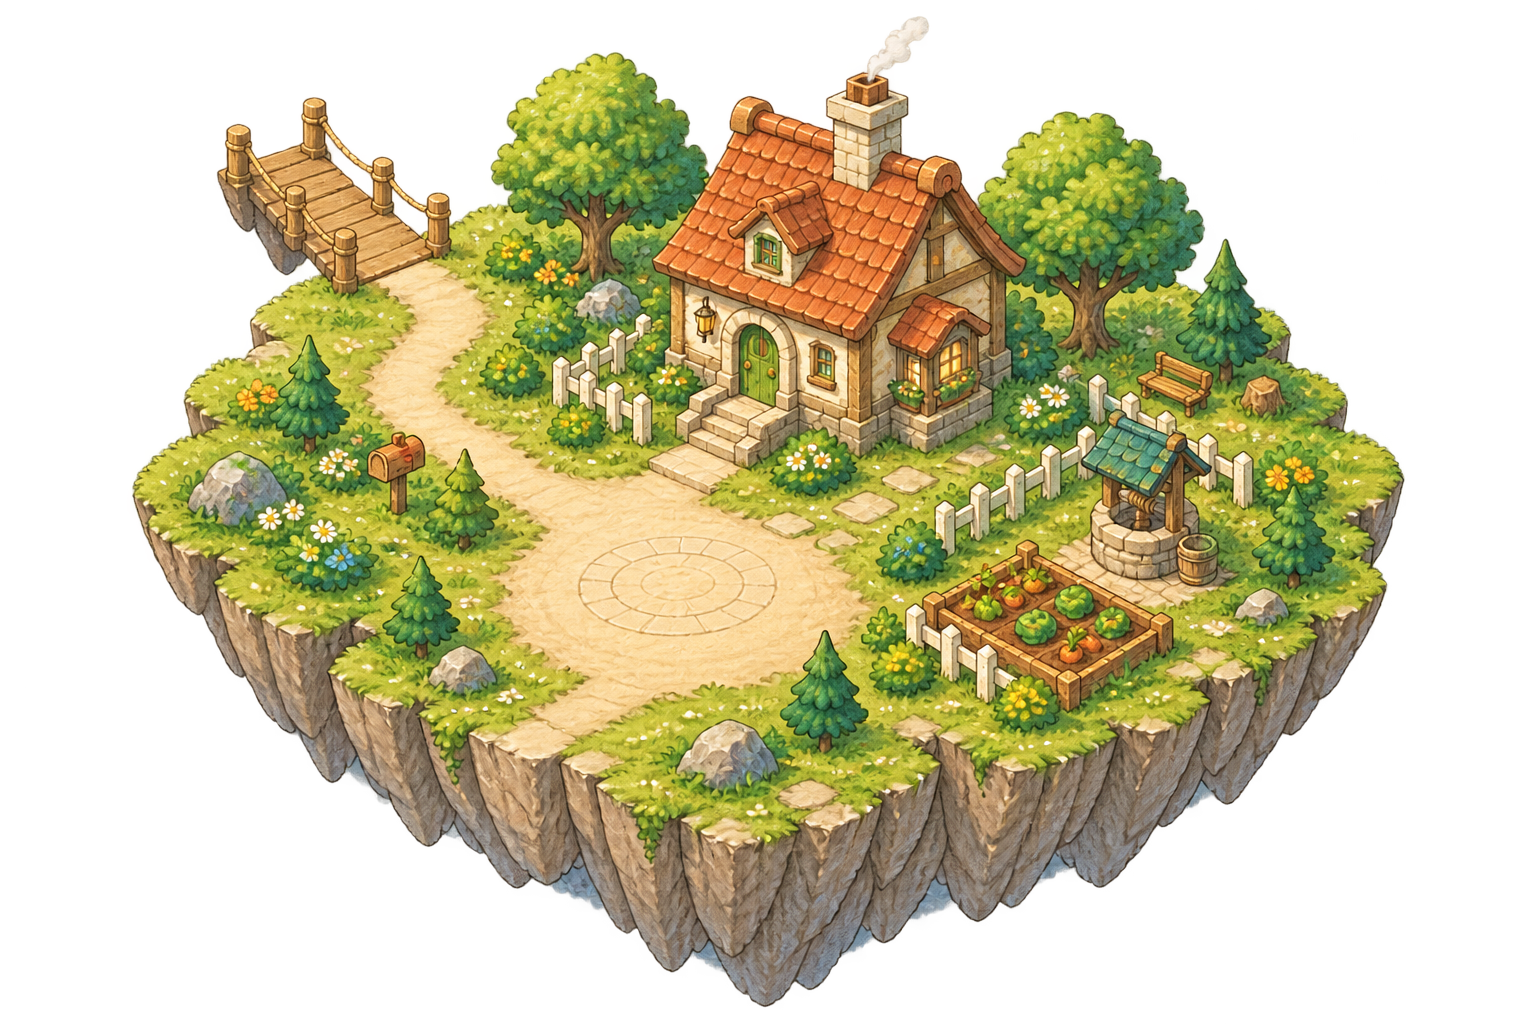
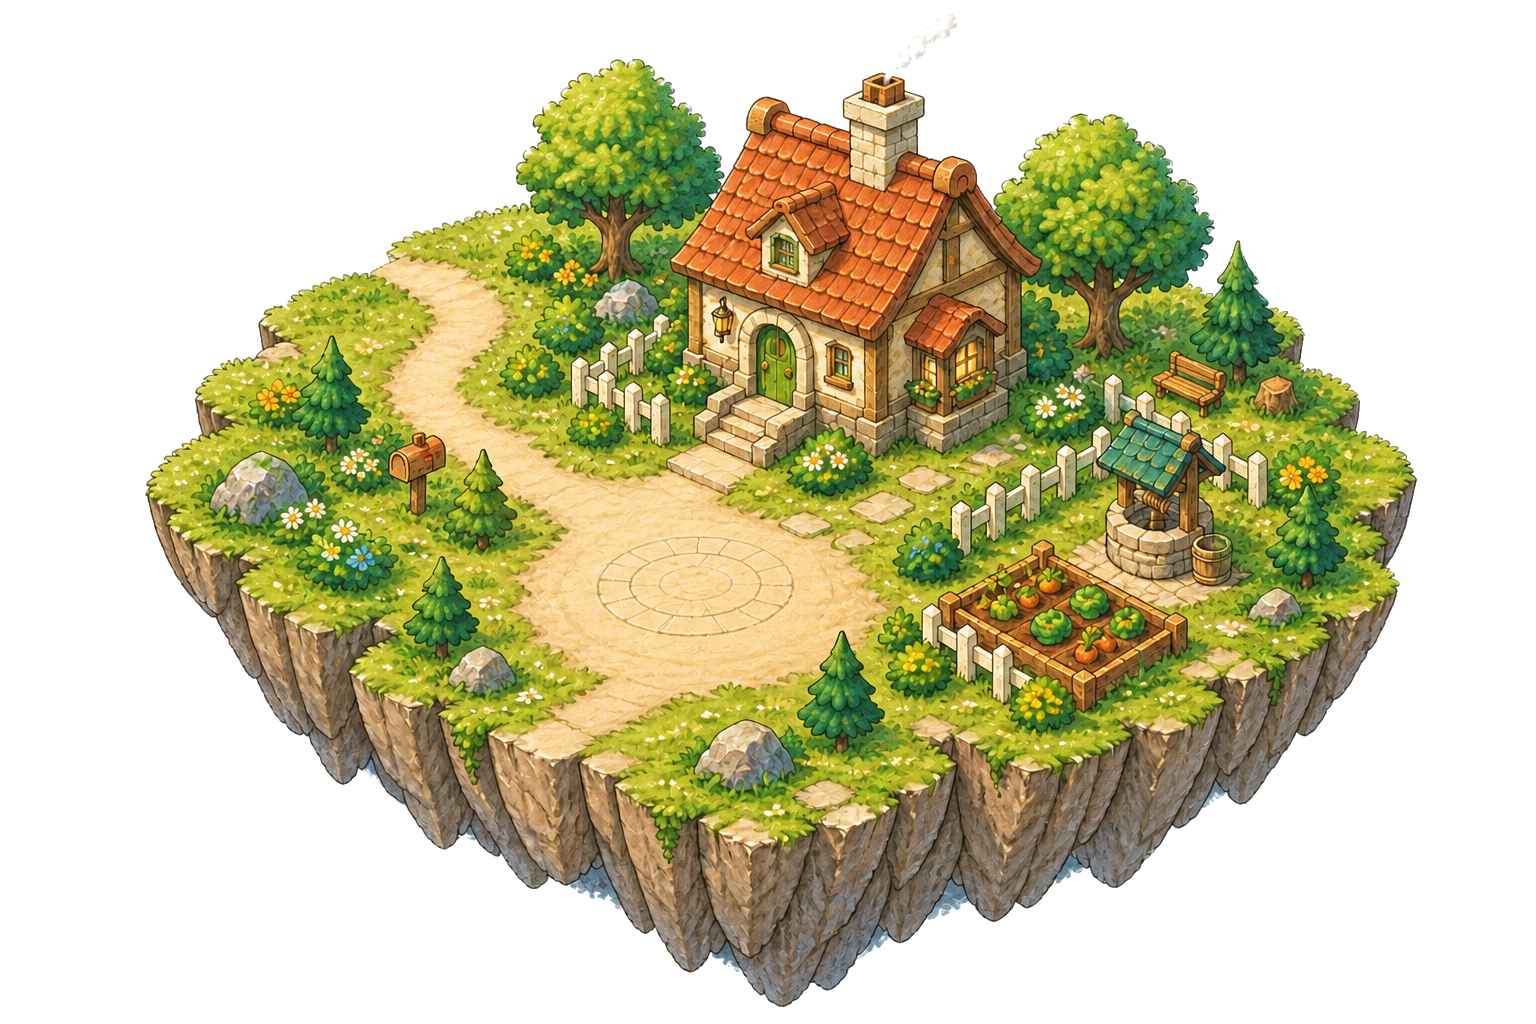
重排自然链式群岛并移除原生码头

diff --git a/src/config/world.js b/src/config/world.js
@@ -1,4 +1,4 @@
-export const MAP_SIZE = Object.freeze({ width: 3400, height: 2200 });
+export const MAP_SIZE = Object.freeze({ width: 5300, height: 2200 });
 
 export const WORLD_BOUNDS = Object.freeze({
   minX: 0,
@@ -57,9 +57,9 @@ function futureIsland(unlockOrder, sceneBounds) {
   });
 }
 
-const HOME_BOUNDS = bounds(1080, 900, 740, 580);
-const MOUNTAIN_BOUNDS = bounds(390, 390, 760, 590);
-const OFFICE_BOUNDS = bounds(1270, 190, 760, 600);
+const HOME_BOUNDS = bounds(80, 140, 740, 580);
+const MOUNTAIN_BOUNDS = bounds(600, 560, 760, 590);
+const OFFICE_BOUNDS = bounds(1120, 1300, 760, 600);
 
 export const ISLANDS = Object.freeze([
   sceneIsland("home", 0, assetUrl("assets/islands/home.png"), HOME_BOUNDS),
@@ -76,31 +76,58 @@ export const ISLANDS = Object.freeze([
     OFFICE_BOUNDS,
     cloudCover(OFFICE_BOUNDS, 0.94),
   ),
-  futureIsland(3, bounds(2070, 130, 620, 480)),
-  futureIsland(4, bounds(2730, 560, 620, 480)),
-  futureIsland(5, bounds(2500, 1240, 620, 480)),
-  futureIsland(6, bounds(1970, 1650, 620, 450)),
-  futureIsland(7, bounds(1240, 1700, 620, 440)),
-  futureIsland(8, bounds(430, 1530, 620, 460)),
-  futureIsland(9, bounds(0, 940, 600, 470)),
+  futureIsland(3, bounds(1690, 1060, 620, 480)),
+  futureIsland(4, bounds(2200, 690, 620, 480)),
+  futureIsland(5, bounds(2760, 340, 620, 480)),
+  futureIsland(6, bounds(3260, 520, 620, 480)),
+  futureIsland(7, bounds(3710, 1145, 620, 450)),
+  futureIsland(8, bounds(4190, 940, 620, 460)),
+  futureIsland(9, bounds(4630, 415, 600, 470)),
 ]);
 
-export const BRIDGES = Object.freeze([
-  Object.freeze({
-    id: "home-mountain",
-    from: Object.freeze({ x: 1240, z: 1060 }),
-    to: Object.freeze({ x: 1030, z: 820 }),
+function islandWalkEllipse(island) {
+  return Object.freeze({
+    x: island.bounds.x + island.bounds.width / 2,
+    z: island.bounds.z + island.bounds.height * 0.52,
+    radiusX: island.bounds.width * 0.43,
+    radiusZ: island.bounds.height * 0.37,
+  });
+}
+
+function ellipseEdgePoint(ellipse, toward) {
+  const dx = toward.x - ellipse.x;
+  const dz = toward.z - ellipse.z;
+  const length = Math.hypot(dx, dz);
+  const direction = { x: dx / length, z: dz / length };
+  const distance = 1 / Math.sqrt(
+    direction.x ** 2 / ellipse.radiusX ** 2
+      + direction.z ** 2 / ellipse.radiusZ ** 2,
+  );
+  return Object.freeze({
+    x: ellipse.x + direction.x * distance,
+    z: ellipse.z + direction.z * distance,
+  });
+}
+
+function bridgeBetween(fromIsland, toIsland) {
+  const fromEllipse = islandWalkEllipse(fromIsland);
+  const toEllipse = islandWalkEllipse(toIsland);
+  return Object.freeze({
+    id: fromIsland.id + "-" + toIsland.id,
+    fromIslandId: fromIsland.id,
+    toIslandId: toIsland.id,
+    from: ellipseEdgePoint(fromEllipse, toEllipse),
+    to: ellipseEdgePoint(toEllipse, fromEllipse),
     width: 110,
-    requiredOrder: 1,
-  }),
-  Object.freeze({
-    id: "mountain-office",
-    from: Object.freeze({ x: 1080, z: 725 }),
-    to: Object.freeze({ x: 1380, z: 620 }),
-    width: 110,
-    requiredOrder: 2,
-  }),
-]);
+    requiredOrder: toIsland.unlockOrder,
+  });
+}
+
+export const BRIDGES = Object.freeze(
+  ISLANDS.slice(0, -1).map((island, index) => (
+    bridgeBetween(island, ISLANDS[index + 1])
+  )),
+);
 
 function gateAcrossBridge(bridge, depth = 70) {
   const dx = bridge.to.x - bridge.from.x;
@@ -135,9 +162,11 @@ function gateAcrossBridge(bridge, depth = 70) {
   });
 }
 
-export const LOCKED_GATES = Object.freeze([
-  gateAcrossBridge(BRIDGES.find(({ id }) => id === "mountain-office")),
-]);
+export const LOCKED_GATES = Object.freeze(
+  BRIDGES
+    .filter(({ requiredOrder }) => requiredOrder >= 2)
+    .map((bridge) => gateAcrossBridge(bridge)),
+);
 
 function ellipseArea(centerX, centerZ, radiusX, radiusZ, segments = 16) {
   return freezeArea(Array.from({ length: segments }, (_, index) => {
@@ -174,13 +203,19 @@ function bridgeArea(bridge, overlap = 24) {
 }
 
 export const WALKABLE_AREAS = Object.freeze([
-  ellipseArea(1450, 1180, 330, 230),
-  ellipseArea(780, 700, 310, 225),
-  ellipseArea(1650, 520, 310, 210),
+  ...ISLANDS.map((island) => {
+    const ellipse = islandWalkEllipse(island);
+    return ellipseArea(
+      ellipse.x,
+      ellipse.z,
+      ellipse.radiusX,
+      ellipse.radiusZ,
+    );
+  }),
   ...BRIDGES.map((bridge) => bridgeArea(bridge)),
 ]);
 
-export const PLAYER_START = Object.freeze({ x: 1450, z: 1300 });
+export const PLAYER_START = Object.freeze({ x: 500, z: 500 });
 export const PLAYER_RADIUS = 15;
 export const PLAYER_SPEED = 145;
 
@@ -189,11 +224,11 @@ export const LOCATIONS = Object.freeze([
     id: "home",
     name: "家庭小屋",
     unlockOrder: 0,
-    x: 1450,
-    z: 1115,
+    x: 450,
+    z: 330,
     hitRadius: 130,
     interactionRadius: 235,
-    approach: Object.freeze({ x: 1450, z: 1300 }),
+    approach: Object.freeze({ x: 500, z: 500 }),
     accent: "#b77b56",
     description: "旅程从熟悉的家和院子开始。",
     sceneDescription: "这里是玩家的出生地和家庭场景，不需要解锁。",
@@ -203,11 +238,11 @@ export const LOCATIONS = Object.freeze([
     name: "爬山岛",
     unlockOrder: 1,
     unlocksOrder: 2,
-    x: 760,
-    z: 650,
+    x: 1030,
+    z: 800,
     hitRadius: 145,
     interactionRadius: 285,
-    approach: Object.freeze({ x: 980, z: 760 }),
+    approach: Object.freeze({ x: 1049, z: 966 }),
     accent: "#9b745c",
     description: "第一站：沿着山路走向云端。",
     sceneDescription: "走过绳桥就能开始爬山。完成这段旅程后，工作岛将会解锁。",
@@ -217,11 +252,11 @@ export const LOCATIONS = Object.freeze([
     id: "office",
     name: "工作岛",
     unlockOrder: 2,
-    x: 1690,
-    z: 475,
+    x: 1540,
+    z: 1500,
     hitRadius: 135,
     interactionRadius: 305,
-    approach: Object.freeze({ x: 1435, z: 600 }),
+    approach: Object.freeze({ x: 1420, z: 1485 }),
     accent: "#647f8a",
     description: "第二站：进入办公室，开始新的故事。",
     lockedDescription: "工作岛尚未解锁，请先完成爬山。",
@@ -230,7 +265,7 @@ export const LOCATIONS = Object.freeze([
 ]);
 
 export const OBSTACLES = Object.freeze([
-  Object.freeze({ x: 1450, z: 1115, radius: 88 }),
-  Object.freeze({ x: 760, z: 650, radius: 110 }),
-  Object.freeze({ x: 1690, z: 475, radius: 92 }),
+  Object.freeze({ x: 450, z: 330, radius: 88 }),
+  Object.freeze({ x: 1030, z: 800, radius: 90 }),
+  Object.freeze({ x: 1540, z: 1500, radius: 92 }),
 ]);

diff --git a/tests/world.test.js b/tests/world.test.js
@@ -72,3 +72,44 @@ test("玩家出生在家庭岛且移动速度固定为舒适值", () => {
   );
   assert.equal(world.PLAYER_SPEED, 145);
 });
+
+test("十座岛屿按双谷折线排列并用九座相邻桥串联", () => {
+  const centers = world.ISLANDS.map(({ bounds }) => ({
+    x: bounds.x + bounds.width / 2,
+    z: bounds.z + bounds.height / 2,
+  }));
+
+  assert.equal(world.BRIDGES.length, world.ISLANDS.length - 1);
+  for (let index = 0; index < world.BRIDGES.length; index += 1) {
+    const bridge = world.BRIDGES[index];
+    assert.equal(bridge.fromIslandId, world.ISLANDS[index].id);
+    assert.equal(bridge.toIslandId, world.ISLANDS[index + 1].id);
+    assert.equal(bridge.requiredOrder, world.ISLANDS[index + 1].unlockOrder);
+    assert.ok(centers[index].x < centers[index + 1].x);
+  }
+
+  const heights = centers.map(({ z }) => z);
+  assert.ok(heights[0] < heights[1] && heights[1] < heights[2]);
+  assert.ok(heights[2] > heights[3] && heights[3] > heights[4]);
+  assert.ok(heights[4] > heights[5]);
+  assert.ok(heights[5] < heights[6] && heights[6] < heights[7]);
+  assert.ok(heights[7] > heights[8] && heights[8] > heights[9]);
+});
+
+test("双转折链路使用不等间距和不同谷深避免机械对称", () => {
+  const centers = world.ISLANDS.map(({ bounds }) => ({
+    x: bounds.x + bounds.width / 2,
+    z: bounds.z + bounds.height / 2,
+  }));
+  const horizontalGaps = centers.slice(1).map((center, index) => (
+    center.x - centers[index].x
+  ));
+  const firstDescent = centers[2].z - centers[0].z;
+  const secondDescent = centers[7].z - centers[5].z;
+  const firstAscent = centers[2].z - centers[5].z;
+  const secondAscent = centers[7].z - centers[9].z;
+
+  assert.ok(Math.max(...horizontalGaps) - Math.min(...horizontalGaps) >= 80);
+  assert.ok(Math.abs(firstDescent - secondDescent) >= 200);
+  assert.ok(Math.abs(firstAscent - secondAscent) >= 200);
+});

diff --git a/tests/camera.test.js b/tests/camera.test.js
@@ -14,20 +14,20 @@ test("静止概览会完整容纳整张地图", async () => {
   assert.ok(transform.offsetY > 0);
 });
 
-test("移动近景会放大两倍并把角色置于视口中央", async () => {
+test("横向地图的近景保持人物可读尺度并置于视口中央", async () => {
   const camera = await cameraPromise;
   assert.equal(typeof camera.createFollowTransform, "function");
 
   const transform = camera.createFollowTransform(
     1200,
     800,
-    3400,
+    5300,
     2200,
-    { x: 1700, z: 1100 },
+    { x: 2650, z: 1100 },
   );
 
-  assert.ok(Math.abs(transform.scale - (1200 / 3400) * 2) < 0.000001);
-  assert.ok(Math.abs(1700 * transform.scale + transform.offsetX - 600) < 0.001);
+  assert.ok(Math.abs(transform.scale - Math.min(1200 / 1700, 800 / 1100)) < 0.000001);
+  assert.ok(Math.abs(2650 * transform.scale + transform.offsetX - 600) < 0.001);
   assert.ok(Math.abs(1100 * transform.scale + transform.offsetY - 400) < 0.001);
 });
 
@@ -39,12 +39,12 @@ test("近景跟随在地图边缘不会露出空白", async () => {
     camera.createFollowTransform(
       1200,
       800,
-      3400,
+      5300,
       2200,
       { x: 0, z: 0 },
     ),
     {
-      scale: (1200 / 3400) * 2,
+      scale: Math.min(1200 / 1700, 800 / 1100),
       offsetX: 0,
       offsetY: 0,
     },

diff --git a/src/systems/camera.js b/src/systems/camera.js
@@ -1,4 +1,4 @@
-const FOLLOW_ZOOM = 2;
+const FOLLOW_WORLD_SIZE = Object.freeze({ width: 1700, height: 1100 });
 const CAMERA_RESPONSE = 8;
 const INTRO_OVERVIEW_SECONDS = 1.2;
 
@@ -33,7 +33,13 @@ export function createFollowTransform(
     mapWidth,
     mapHeight,
   );
-  const scale = overview.scale * FOLLOW_ZOOM;
+  const scale = Math.max(
+    overview.scale,
+    Math.min(
+      viewWidth / FOLLOW_WORLD_SIZE.width,
+      viewHeight / FOLLOW_WORLD_SIZE.height,
+    ),
+  );
   return {
     scale,
     offsetX: clamp(
